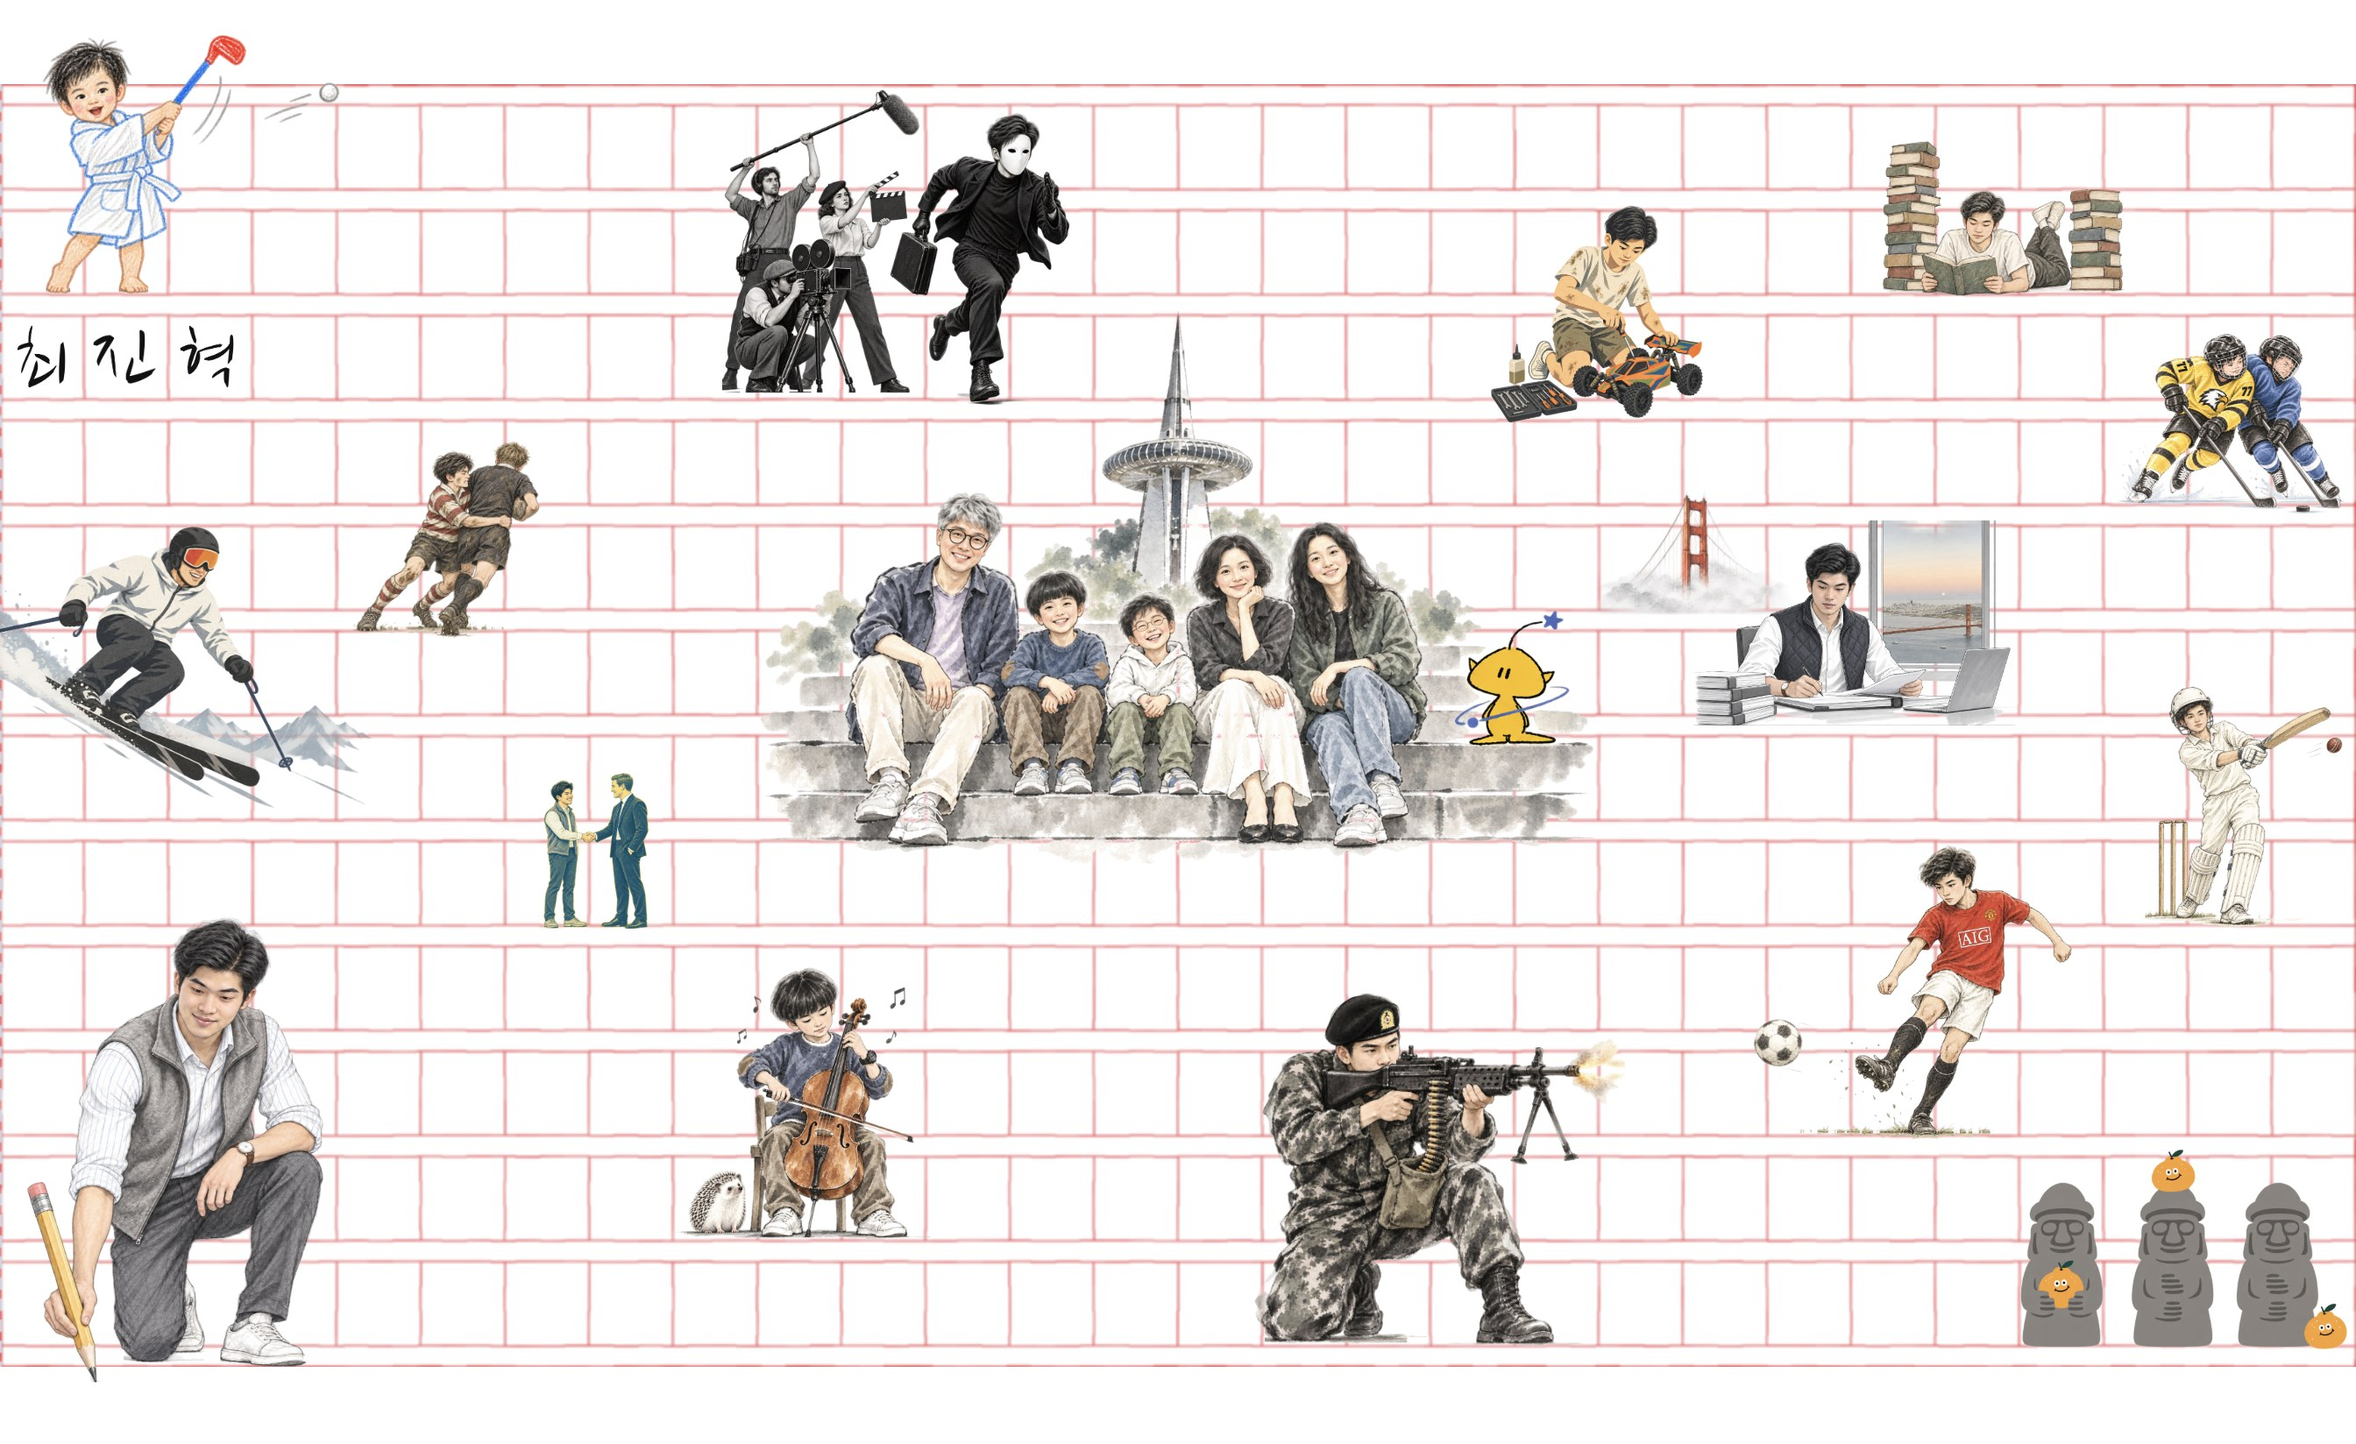
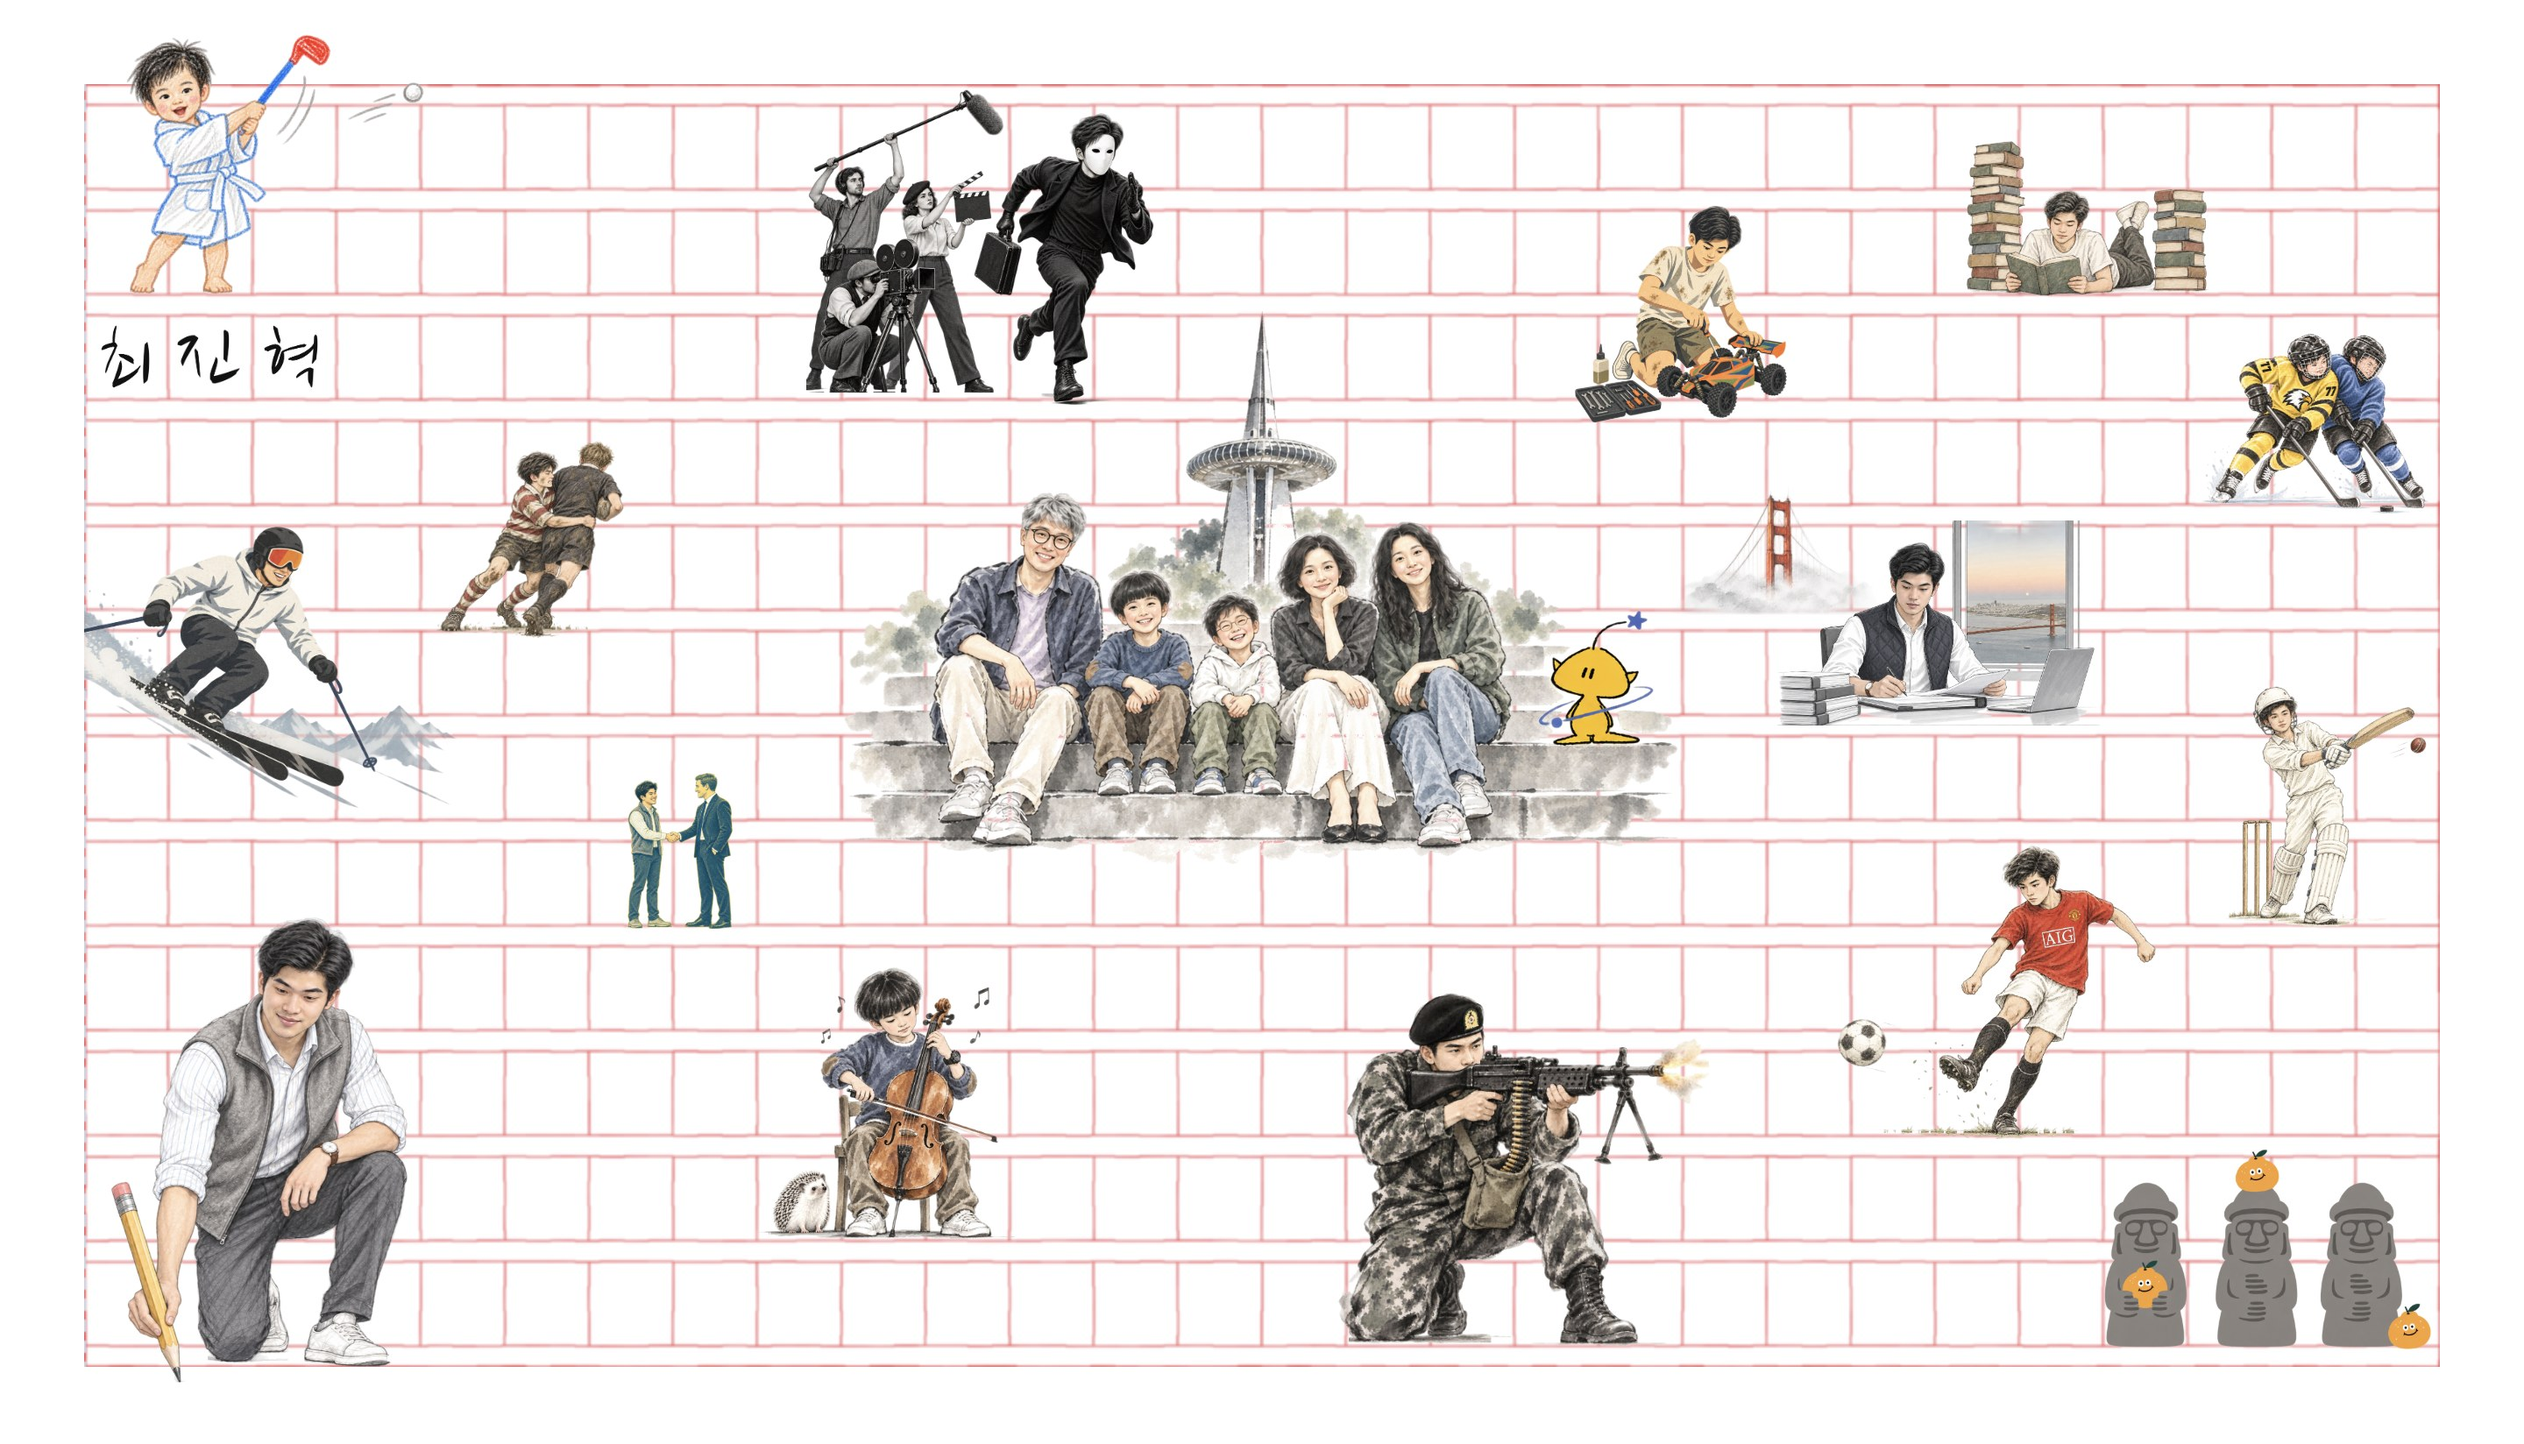
Ship dark mode with a light/dark toggle
- The hero is re-exported as one image that serves both themes: the white
  sheet you sized in Paper, running gutter to gutter, with everything
  outside it transparent. On the dark ground it reads as lit paper rather
  than a grid floating on black. Replicated the sheet into the light
  landing artboard too, so the two stay in sync.
- Dark palette taken from the "Dark — …" artboards: #0F0F0F ground,
  #F2F2F2 text, #8A8A8A muted, #2A2A2A rules, #F5A623 accent.
- Toggle in the topbar matches the design's two-cell pill. The theme
  resolves before first paint from a saved choice, falling back to the OS
  setting, so there's no flash of the wrong one. It keeps following the OS
  until the visitor picks a side.
- Footer icons move to the muted colour, matching the Paper design in both
  themes. Code blocks follow the theme instead of a fixed grey.

diff --git a/src/styles/global.css b/src/styles/global.css
@@ -4,12 +4,16 @@
    sub-pages). Changing a value here changes it everywhere.
    --------------------------------------------------------------------------- */
 :root {
+  color-scheme: light;
   --ink: #111111;        /* body text, headings */
   --muted: #6b6b6b;      /* secondary text, nav */
   --rule: #e4e4e4;       /* hairline dividers */
   --accent: #ff5722;     /* dates and meta */
   --paper: #ffffff;      /* page background */
   --placeholder: #ededed;
+  --toggle-on: #f0f0f0;  /* filled cell behind the active theme icon */
+  --toggle-off: #9a9a9a; /* the inactive theme icon */
+  --code-bg: #f6f6f6;
 
   --page: 1440px;        /* artboard width */
   --gutter: 48px;        /* artboard side padding */
@@ -19,6 +23,22 @@
   --sans-tight: 'Inter Tight', 'Inter', system-ui, sans-serif;
   --mono: 'JetBrains Mono', ui-monospace, SFMono-Regular, Menlo, monospace;
   --script: 'Allura', cursive;
+}
+
+/* Dark mode. Values taken from the "Dark — …" artboards in the Paper file.
+   The theme is resolved to an explicit light/dark on <html> by an inline
+   script in Base.astro before first paint, so only one branch is needed. */
+:root[data-theme='dark'] {
+  color-scheme: dark;
+  --ink: #f2f2f2;
+  --muted: #8a8a8a;
+  --rule: #2a2a2a;
+  --accent: #f5a623;
+  --paper: #0f0f0f;
+  --placeholder: #1c1c1c;
+  --toggle-on: #242424;
+  --toggle-off: #6e6e6e;
+  --code-bg: #1a1a1a;
 }
 
 /* ---------------------------------------------------------------------------
@@ -132,12 +152,61 @@ a {
   color: var(--ink);
 }
 
+/* Theme toggle — a two-cell pill, the active half filled. */
+.theme-toggle {
+  display: flex;
+  align-items: center;
+  justify-self: end;
+  flex-shrink: 0;
+  padding: 3px;
+  gap: 2px;
+  border: 1px solid var(--rule);
+  border-radius: 14px;
+}
+
+.theme-toggle button {
+  display: flex;
+  align-items: center;
+  justify-content: center;
+  width: 28px;
+  height: 22px;
+  flex-shrink: 0;
+  padding: 0;
+  border: 0;
+  border-radius: 11px;
+  background: transparent;
+  color: var(--toggle-off);
+  cursor: pointer;
+  transition: background 0.15s ease, color 0.15s ease;
+}
+
+.theme-toggle button:hover {
+  color: var(--ink);
+}
+
+.theme-toggle button[aria-pressed='true'] {
+  background: var(--toggle-on);
+  color: var(--ink);
+}
+
+.theme-toggle svg {
+  width: 13px;
+  height: 13px;
+}
+
 /* ---------------------------------------------------------------------------
    Hero
    --------------------------------------------------------------------------- */
-/* The illustration sits flush with the content column. Only the pencil
-   breaks out, hanging below the grid — the export carries 44px of bleed at
-   the bottom for it, which the reduced .intro padding below accounts for. */
+/* The export is a full 1440-wide page: a white sheet running gutter to
+   gutter with the grid on it, transparent everywhere else. That one image
+   serves both themes — in dark mode the sheet reads as lit paper on the
+   dark ground. The skier is cropped at the grid border; only the pencil
+   breaks out, into the 44px of bleed below, which the reduced .intro
+   padding accounts for. */
+.hero {
+  margin-inline: calc(var(--gutter) * -1);
+}
+
 .hero img {
   width: 100%;
   height: auto;
@@ -450,14 +519,14 @@ article hr {
 article code {
   font-family: var(--mono);
   font-size: 0.85em;
-  background: #f6f6f6;
+  background: var(--code-bg);
   padding: 2px 5px;
 }
 
 article pre {
   overflow-x: auto;
   padding: 16px;
-  background: #f6f6f6;
+  background: var(--code-bg);
   font-size: 14px;
   line-height: 22px;
 }
@@ -602,7 +671,7 @@ article figcaption {
   display: flex;
   align-items: center;
   justify-content: center;
-  color: var(--ink);
+  color: var(--muted);
   transition: color 0.15s ease;
 }
 
